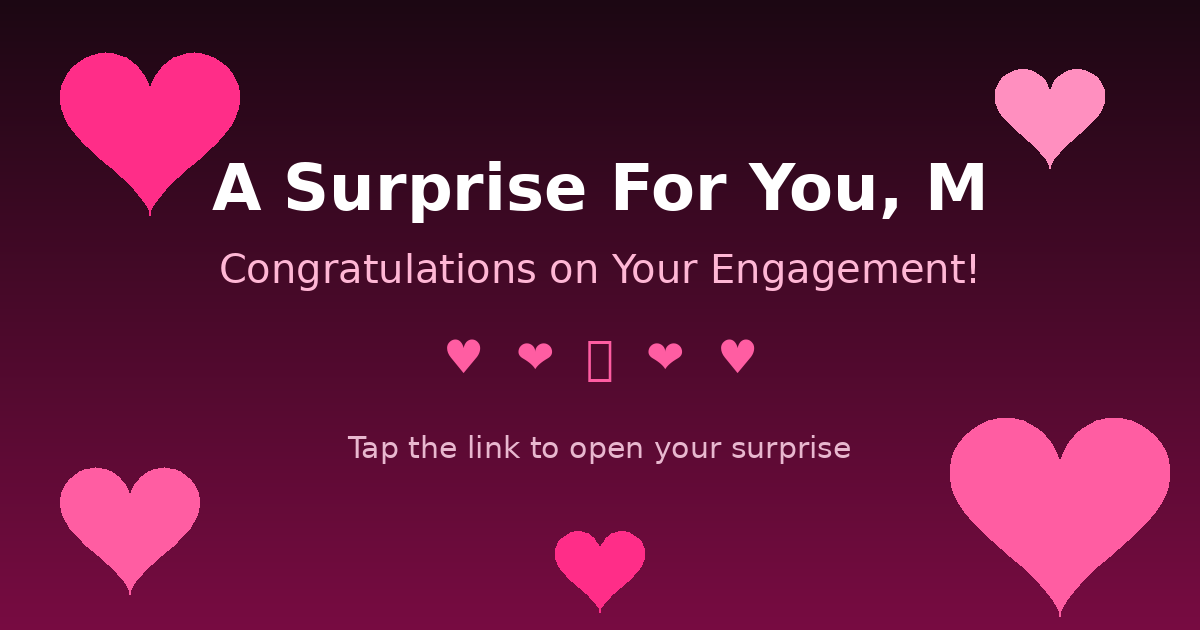
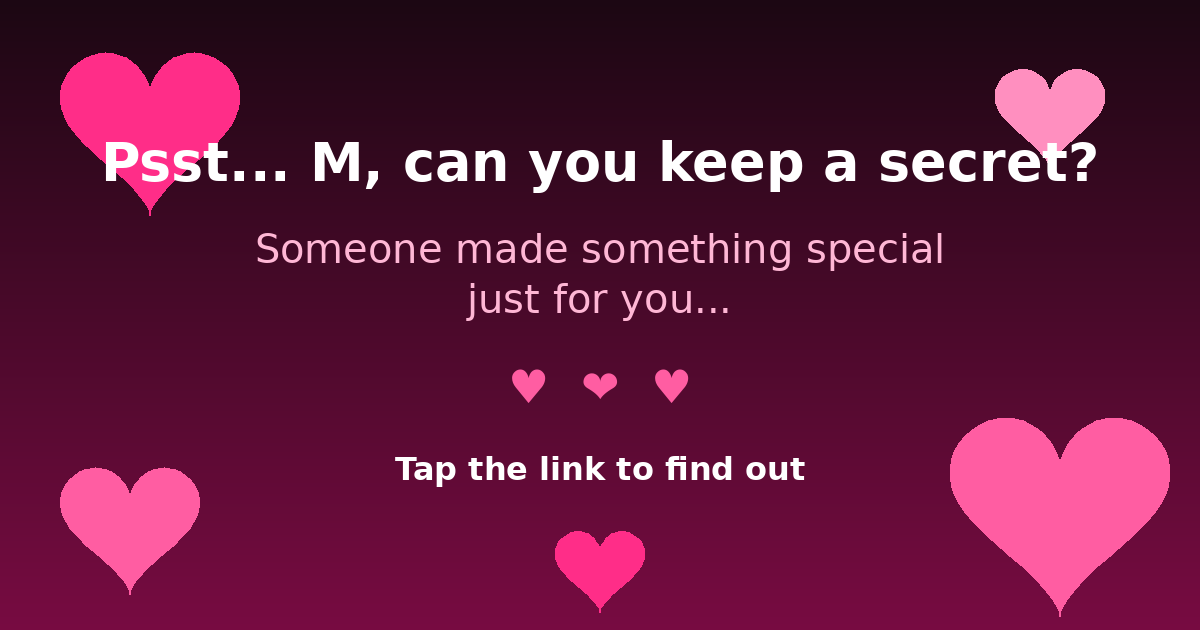
Update WhatsApp preview with secret hook

diff --git a/index.html b/index.html
@@ -6,15 +6,15 @@
 <title>You Are Special! 💖 — For M, From Z</title>
 <meta name="description" content="A surprise engagement congratulations website for M, from Z. Tap the link to open your surprise! 💍💖">
 <meta property="og:type" content="website">
-<meta property="og:title" content="A Surprise For You, M 💖">
-<meta property="og:description" content="Congratulations on your engagement! Z made something special just for you — tap to open it. 💍">
+<meta property="og:title" content="Psst... M, can you keep a secret? 🤫💖">
+<meta property="og:description" content="Someone made something special just for you. Tap to open it — you are going to love this. 💍">
 <meta property="og:url" content="https://zmsurprise.netlify.app/">
 <meta property="og:image" content="https://zmsurprise.netlify.app/og-image.png">
 <meta property="og:image:width" content="1200">
 <meta property="og:image:height" content="630">
 <meta name="twitter:card" content="summary_large_image">
-<meta name="twitter:title" content="A Surprise For You, M 💖">
-<meta name="twitter:description" content="Congratulations on your engagement! Z made something special just for you — tap to open it. 💍">
+<meta name="twitter:title" content="Psst... M, can you keep a secret? 🤫💖">
+<meta name="twitter:description" content="Someone made something special just for you. Tap to open it — you are going to love this. 💍">
 <meta name="twitter:image" content="https://zmsurprise.netlify.app/og-image.png">
 <link href="https://fonts.googleapis.com/css2?family=Great+Vibes&family=Poppins:wght@300;400;500;600;700&display=swap" rel="stylesheet">
 <style>
